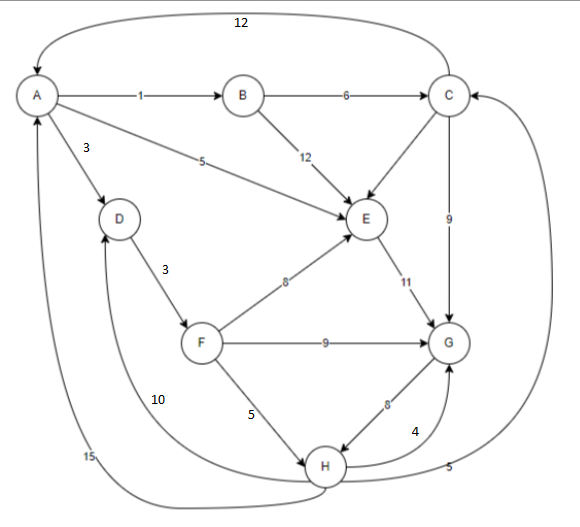
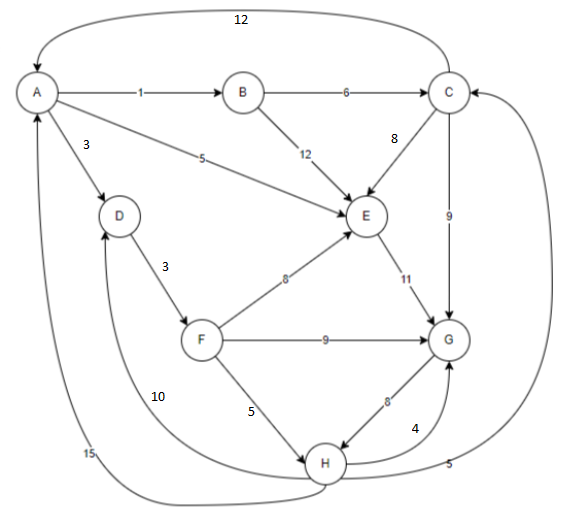
Change approach using Vector and Route

diff --git a/Challenges/Finding-Shortest-Path-Problem(SPP)/lib/src/test/java/org/spp/DijkstraTest.java b/Challenges/Finding-Shortest-Path-Problem(SPP)/lib/src/test/java/org/spp/DijkstraTest.java
@@ -6,77 +6,89 @@ import java.util.List;
 import java.util.Map;
 
 import static org.junit.jupiter.api.Assertions.assertEquals;
+import static org.junit.jupiter.api.Assertions.assertTrue;
 
 class DijkstraTest {
 
     @Test
-    void testSPPSuccess() {
-        // Given nodes and distance
-        Node nodeA = new Node("A");
-        Node nodeB = new Node("B");
-        Node nodeC = new Node("C");
-        Node nodeD = new Node("D");
-        Node nodeE = new Node("E");
-        Node nodeF = new Node("F");
-        Node nodeG = new Node("G");
-        Node nodeH = new Node("H");
+    void testShortestPath() {
+        Vector vAB = Vector.builder().sourceNode("A").destinationNode("B").distance(1).build();
+        Vector vAE = Vector.builder().sourceNode("A").destinationNode("E").distance(5).build();
+        Vector vAD = Vector.builder().sourceNode("A").destinationNode("D").distance(3).build();
 
-        nodeA.addDestination(nodeB, 1);
-        nodeA.addDestination(nodeE, 5);
-        nodeA.addDestination(nodeD, 3);
+        Vector vBC = Vector.builder().sourceNode("B").destinationNode("C").distance(6).build();
+        Vector vBE = Vector.builder().sourceNode("B").destinationNode("E").distance(12).build();
 
-        nodeB.addDestination(nodeC, 6);
-        nodeB.addDestination(nodeE, 12);
+        Vector vCA = Vector.builder().sourceNode("C").destinationNode("A").distance(12).build();
+        Vector vCE = Vector.builder().sourceNode("C").destinationNode("E").distance(8).build();
+        Vector vCG = Vector.builder().sourceNode("C").destinationNode("G").distance(9).build();
 
-        nodeC.addDestination(nodeE, 8);
-        nodeC.addDestination(nodeG, 9);
-        nodeC.addDestination(nodeA, 12);
+        Vector vDF = Vector.builder().sourceNode("D").destinationNode("F").distance(3).build();
 
-        nodeD.addDestination(nodeF, 3);
+        Vector vEG = Vector.builder().sourceNode("E").destinationNode("G").distance(3).build();
 
-        nodeE.addDestination(nodeG, 11);
+        Vector vFH = Vector.builder().sourceNode("F").destinationNode("H").distance(5).build();
 
-        nodeF.addDestination(nodeE, 8);
-        nodeF.addDestination(nodeG, 9);
-        nodeF.addDestination(nodeH, 5);
+        Vector vGH = Vector.builder().sourceNode("G").destinationNode("H").distance(8).build();
 
-        nodeG.addDestination(nodeH, 8);
+        Vector vHA = Vector.builder().sourceNode("H").destinationNode("A").distance(15).build();
+        Vector vHC = Vector.builder().sourceNode("H").destinationNode("C").distance(5).build();
+        Vector vHD = Vector.builder().sourceNode("H").destinationNode("D").distance(10).build();
+        Vector vHG = Vector.builder().sourceNode("H").destinationNode("G").distance(4).build();
 
-        nodeH.addDestination(nodeA, 15);
-        nodeH.addDestination(nodeD, 10);
-        nodeH.addDestination(nodeG, 4);
-        nodeH.addDestination(nodeC, 5);
+        // Given: A directed weighted graph
+        Graph graph = Graph.builder()
+                .adjacentNodes(Map.of(
+                        "A", List.of( vAB, vAE, vAD ),
+                        "B", List.of( vBC, vBE ),
+                        "C", List.of( vCA, vCE, vCG ),
+                        "D", List.of( vDF ),
+                        "E", List.of( vEG ),
+                        "F", List.of( vFH ),
+                        "G", List.of( vGH ),
+                        "H", List.of( vHA, vHC, vHD, vHG )
+                ))
+                .build();
 
-        Graph graph = new Graph();
+        Dijkstra dijkstra = new Dijkstra(graph);
 
-        graph.addNode(nodeA);
-        graph.addNode(nodeB);
-        graph.addNode(nodeC);
-        graph.addNode(nodeD);
-        graph.addNode(nodeE);
-        graph.addNode(nodeF);
-        graph.addNode(nodeG);
-        graph.addNode(nodeH);
+        // When: Find the shortest path
+        Route routeAG = dijkstra.findShortestRoute( "A", "G" );
+        Route routeCF = dijkstra.findShortestRoute( "C", "F" );
 
-        // When calculate the shortest path from node A
-        graph = Dijkstra.calculateShortestPathFromSource(graph, nodeA);
+        // Then: Verify the path and total distance
+        assertEquals( 8, routeAG.totalDistance() );
+        assertEquals( 2, routeAG.route().size() );
+        assertEquals( "AE → EG", routeAG.toString() );
 
-        // Then return the shortest path for each node
-        Map<String, List<Node>> expectedShortestPaths = Map.of(
-                "B", List.of(nodeA),
-                "C", List.of(nodeA, nodeB),
-                "D", List.of(nodeA),
-                "E", List.of(nodeA),
-                "F", List.of(nodeA, nodeD),
-                "G", List.of(nodeA, nodeD, nodeF),
-                "H", List.of(nodeA, nodeD, nodeF)
-        );
+        assertEquals( 18, routeCF.totalDistance() );
+        assertEquals( 3, routeCF.route().size() );
+        assertEquals( "CA → AD → DF", routeCF.toString() );
+    }
 
-        for (Node node : graph.getNodes()) {
-            List<Node> expectedPath = expectedShortestPaths.get(node.getName());
-            if (expectedPath != null) {
-                assertEquals(node.getShortestPath(),expectedPath);
-            }
-        }
+    @Test
+    void testNoPathAvailable() {
+        Vector vAB = Vector.builder().sourceNode("A").destinationNode("B").distance(1).build();
+        Vector vCG = Vector.builder().sourceNode("C").destinationNode("G").distance(9).build();
+
+        // Given: A disconnected graph
+        Graph graph = Graph.builder()
+                .adjacentNodes( Map.of(
+                        "A", List.of( vAB ),
+                        "B", List.of(),
+                        "C", List.of( vCG ),
+                        "D", List.of()
+                ))
+                .build();
+
+        Dijkstra dijkstra = new Dijkstra(graph);
+
+        // When: Find the shortest path
+        Route route = dijkstra.findShortestRoute("A", "D");
+
+        // Then: Verify no path is found
+        assertEquals( -1, route.totalDistance() );
+        assertTrue( route.route().isEmpty() );
+        assertEquals( "", route.toString() );
     }
 }

diff --git a/Challenges/Finding-Shortest-Path-Problem(SPP)/lib/src/main/java/org/spp/Dijkstra.java b/Challenges/Finding-Shortest-Path-Problem(SPP)/lib/src/main/java/org/spp/Dijkstra.java
@@ -1,55 +1,86 @@
 package org.spp;
 
 import java.util.*;
-import java.util.Map.Entry;
 
 public class Dijkstra {
 
-    public static Graph calculateShortestPathFromSource(Graph graph, Node source) {
+    private final Graph graph;
 
-        source.setDistance(0);
+    public Dijkstra(Graph graph) {
+        this.graph = graph;
+    }
 
-        Set<Node> settledNodes = new HashSet<>();
-        Set<Node> unsettledNodes = new HashSet<>();
-        unsettledNodes.add(source);
+    public Route findShortestRoute(String sourceNode, String destinationNode) {
+
+        Map<String, Integer> distances = new HashMap<>();
+        Map<String, Vector> previousEdges = new HashMap<>();
+        Set<String> unsettledNodes = new HashSet<>(graph.adjacentNodes().keySet());
+
+        for (String node : graph.adjacentNodes().keySet()) {
+            distances.put(node, Integer.MAX_VALUE);
+        }
+        distances.put(sourceNode, 0);
 
         while (!unsettledNodes.isEmpty()) {
-            Node currentNode = getLowestDistanceNode(unsettledNodes);
+            String currentNode = getClosestNode(unsettledNodes, distances);
+            if (currentNode == null || distances.get(currentNode) == Integer.MAX_VALUE || currentNode.equals(destinationNode)) {
+                break;
+            }
             unsettledNodes.remove(currentNode);
-            for (Entry<Node, Integer> adjacencyPair : currentNode.getAdjacentNodes().entrySet()) {
-                Node adjacentNode = adjacencyPair.getKey();
-                Integer edgeWeigh = adjacencyPair.getValue();
 
-                if (!settledNodes.contains(adjacentNode)) {
-                    calculateMinimumDistance(adjacentNode, edgeWeigh, currentNode);
-                    unsettledNodes.add(adjacentNode);
-                }
-            }
-            settledNodes.add(currentNode);
-        }
-        return graph;
-    }
-
-    private static void calculateMinimumDistance(Node evaluationNode, Integer edgeWeigh, Node sourceNode) {
-        Integer sourceDistance = sourceNode.getDistance();
-        if (sourceDistance + edgeWeigh < evaluationNode.getDistance()) {
-            evaluationNode.setDistance(sourceDistance + edgeWeigh);
-            List<Node> shortestPath = new ArrayList<>(sourceNode.getShortestPath());
-            shortestPath.add(sourceNode);
-            evaluationNode.setShortestPath(shortestPath);
-        }
-    }
-
-    private static Node getLowestDistanceNode(Set<Node> unsettledNodes) {
-        Node lowestDistanceNode = null;
-        int lowestDistance = Integer.MAX_VALUE;
-        for (Node node : unsettledNodes) {
-            int nodeDistance = node.getDistance();
-            if (nodeDistance < lowestDistance) {
-                lowestDistance = nodeDistance;
-                lowestDistanceNode = node;
+            List<Vector> neighbors = graph.adjacentNodes().getOrDefault(currentNode, List.of());
+            for (Vector vector : neighbors) {
+                calculateMinimumDistance(vector, unsettledNodes, distances, currentNode, previousEdges);
             }
         }
-        return lowestDistanceNode;
+
+        return buildRoute(destinationNode, previousEdges, distances);
+    }
+
+    private void calculateMinimumDistance(Vector vector, Set<String> unsettledNodes, Map<String, Integer> distances, String currentNode, Map<String, Vector> previousEdges) {
+        String evaluationNode = vector.destinationNode();
+        if (!unsettledNodes.contains(evaluationNode)) return;
+
+        int newDistance = distances.get(currentNode) + vector.distance();
+
+        // Update distances to its neighbors if a shorter path is found.
+        if (newDistance < distances.get(evaluationNode)) {
+            distances.put(evaluationNode, newDistance);
+            previousEdges.put(evaluationNode , vector);
+        }
+    }
+
+    private Route buildRoute(String destinationNode, Map<String, Vector> previousEdges, Map<String, Integer> distances) {
+        // Build the Route
+        List<Vector> path = new ArrayList<>();
+        String currentNode = destinationNode;
+
+        while (previousEdges.containsKey(currentNode)) {
+            Vector edge = previousEdges.get(currentNode);
+            path.add(0, edge);
+            currentNode = edge.sourceNode();
+        }
+
+        // Handle No Route
+        if (distances.get(destinationNode) == Integer.MAX_VALUE) {
+            return Route.builder().route(List.of()).totalDistance(-1).build();
+        }
+
+        return Route.builder().route(path).totalDistance(distances.get(destinationNode)).build();
+    }
+
+    // Finds the unvisited node with the smallest distance.
+    private String getClosestNode(Set<String> unvisited, Map<String, Integer> distances) {
+        String closestNode = null;
+        int smallestDistance = Integer.MAX_VALUE;
+
+        for (String node : unvisited) {
+            int currentDistance = distances.getOrDefault(node, Integer.MAX_VALUE);
+            if (currentDistance < smallestDistance) {
+                smallestDistance = currentDistance;
+                closestNode = node;
+            }
+        }
+        return closestNode;
     }
 }

diff --git a/Challenges/Finding-Shortest-Path-Problem(SPP)/lib/src/main/java/org/spp/Route.java b/Challenges/Finding-Shortest-Path-Problem(SPP)/lib/src/main/java/org/spp/Route.java
@@ -1,0 +1,19 @@
+package org.spp;
+
+import lombok.Builder;
+
+import java.util.List;
+import java.util.stream.Collectors;
+
+@Builder(toBuilder = true)
+public record Route(List<Vector> route, int totalDistance) {
+
+    @Override
+    public String toString() {
+        return route.stream().map(vector -> formatVector(vector)).collect(Collectors.joining(" → "));
+    }
+
+    private String formatVector(Vector vector) {
+        return vector.sourceNode() + vector.destinationNode();
+    }
+}

diff --git a/Challenges/Finding-Shortest-Path-Problem(SPP)/lib/src/main/java/org/spp/Graph.java b/Challenges/Finding-Shortest-Path-Problem(SPP)/lib/src/main/java/org/spp/Graph.java
@@ -1,16 +1,10 @@
 package org.spp;
 
-import lombok.Data;
+import lombok.Builder;
 
-import java.util.HashSet;
-import java.util.Set;
+import java.util.List;
+import java.util.Map;
 
-@Data
-public class Graph {
-
-    private Set<Node> nodes = new HashSet<>();
-
-    public void addNode(Node nodeA) {
-        nodes.add(nodeA);
-    }
+@Builder(toBuilder = true)
+public record Graph(Map<String, List<Vector>> adjacentNodes){
 }

diff --git a/Challenges/Finding-Shortest-Path-Problem(SPP)/lib/src/main/java/org/spp/Vector.java b/Challenges/Finding-Shortest-Path-Problem(SPP)/lib/src/main/java/org/spp/Vector.java
@@ -1,0 +1,7 @@
+package org.spp;
+
+import lombok.Builder;
+
+@Builder(toBuilder = true)
+public record Vector (String sourceNode, String destinationNode, int distance) {
+}
